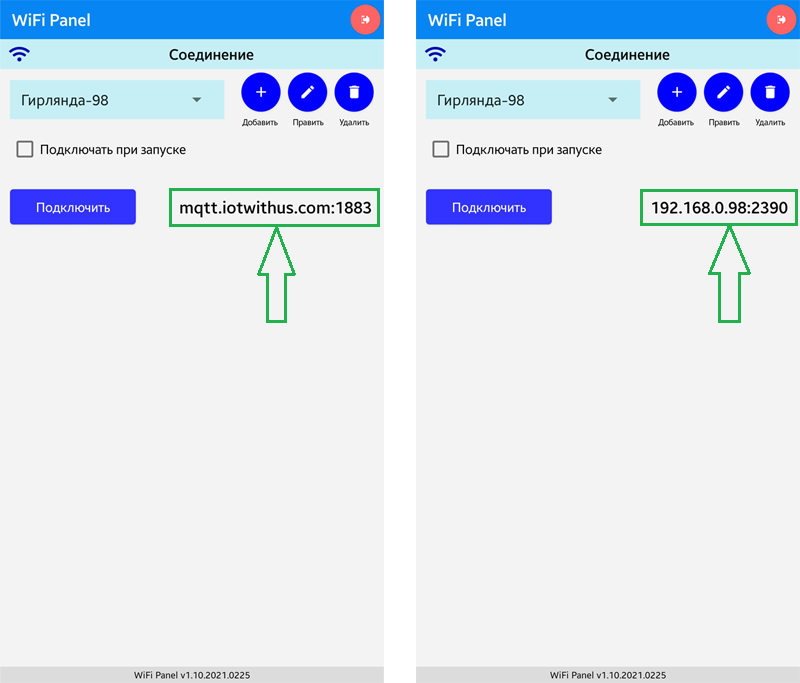
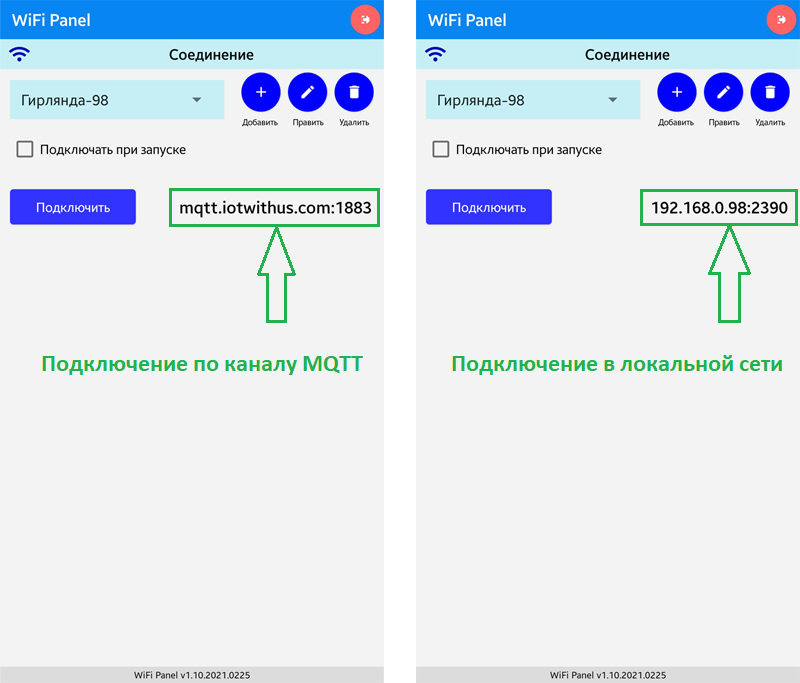
Правки wiki

Changed region(s): [[0.5625, 0.5227, 1.0, 0.5534], [0.0312, 0.5227, 0.4688, 0.5534]]

diff --git a/wiki/Tune/phone.md b/wiki/Tune/phone.md
@@ -3,7 +3,7 @@
 ## Подключение к устройству
 
 Итак, прошивка настроена, скомпилирована и загружена в микроконтроллер. Микроконтроллер запустился и в окне монитора порта вы видите сообщение, 
-что точка доступа **PanalAP** создана со стандартным IP **192.168.4.1** и стандартным паролеь 12341234.  
+что точка доступа **PanelAP** создана со стандартным IP **192.168.4.1** и стандартным паролем 12341234.  
 
 ![Монитор порта](https://github.com/vvip-68/GyverPanelWiFi/blob/master/wiki/Tune/p01.png)
                
@@ -11,11 +11,11 @@
 
 ![PanelAP-1](https://github.com/vvip-68/GyverPanelWiFi/blob/master/wiki/Tune/p03.png)
 
-Выберите сеть **PanelAP**, введите в поле пароля пароль *12341234** и нажмите кнопку "Подключиться"  
+Выберите сеть **PanelAP**, введите в поле пароля пароль **12341234** и нажмите кнопку **"Подключиться"**  
 
 ![PanelAP-2](https://github.com/vvip-68/GyverPanelWiFi/blob/master/wiki/Tune/p02.png)
 
-Ваш телефон подключился к точкке доступа, созданной устройством  
+Ваш телефон подключился к точ	ке доступа, созданной устройством  
 
 ![PanelAP-3](https://github.com/vvip-68/GyverPanelWiFi/blob/master/wiki/Tune/p04.png)
 
@@ -24,9 +24,9 @@
 
 ![Приложение-1](https://github.com/vvip-68/GyverPanelWiFi/blob/master/wiki/Tune/p05.png)
 
-В списке доступных подключений уже выбрано подключение **PanelAP**, параметры подключения - 192.168.4.1:2390; Нажмите кнопку **"Подключить"**.  
+В списке доступных подключений уже выбрано подключение **PanelAP**, параметры подключения - **192.168.4.1:2390**. Нажмите кнопку **"Подключить"**.  
 
-Приложение подключется к устройству. В верхней части экрана приложения вы увидите набор кнопок, позволяющих переключаться между страницами интерфейса приложения.
+Приложение подключится к устройству. В верхней части экрана приложения вы увидите набор кнопок, позволяющих переключаться между страницами интерфейса приложения.
 Перейдите на страницу **"Настройки подключения"**.
 
 ![Приложение-2](https://github.com/vvip-68/GyverPanelWiFi/blob/master/wiki/Tune/p06.png)
@@ -48,9 +48,9 @@
 
 ![Приложение-4](https://github.com/vvip-68/GyverPanelWiFi/blob/master/wiki/Tune/p08.png)
 
-В поле **Имя** дайте имя создаваемому соединению. Это имя позже можно будет выбрать из списке созданных соединений для быстрого выбора подключения.  
-В поле **IP адрес** укажите IP адресм, который получило ваше устройство при регистрации в вашей локальной сети.  
-В поле **Порт** укажите порт подключения, который был указан на этапе конфигурирования прошивки перед компиляцией. Значение по умолчанию - ***2390***  
+В поле **"Имя"** дайте имя создаваемому соединению. Это имя позже можно будет выбрать из списка созданных соединений для быстрого выбора устройства для подключения.  
+В поле **"IP адрес"** укажите IP адрес, который получило ваше устройство при регистрации в вашей локальной сети.  
+В поле **"Порт"** укажите порт подключения, который был указан на этапе конфигурирования прошивки перед компиляцией. Значение по умолчанию ***2390***  
 Обратите внимание, что при настройке соединения отмечен чекбокс **"Локальная сеть"**
 
 Нажмите кнопку **"Подключить"**. Приложение сохранит введенные настройки подключения для дальнейшего использования.  
@@ -63,12 +63,16 @@
 выполните в приложении на смартфоне [настройку](https://github.com/vvip-68/GyverPanelWiFi/wiki/%D0%9D%D0%B0%D1%81%D1%82%D1%80%D0%BE%D0%B9%D0%BA%D0%B0-%D0%BF%D0%BE%D0%B4%D0%BA%D0%BB%D1%8E%D1%87%D0%B5%D0%BD%D0%B8%D1%8F-%D0%BA-MQTT-%D1%81%D0%B5%D1%80%D0%B2%D0%B5%D1%80%D1%83#%D0%9D%D0%B0%D1%81%D1%82%D1%80%D0%BE%D0%B9%D0%BA%D0%B0-%D0%BF%D0%B0%D1%80%D0%B0%D0%BC%D0%B5%D1%82%D1%80%D0%BE%D0%B2-mqtt-%D0%B2-%D0%BF%D1%80%D0%B8%D0%BB%D0%BE%D0%B6%D0%B5%D0%BD%D0%B8%D0%B8) 
 связи с использованием этого канала.
 
+```
 Управление по каналу MQTT позволяет управлять устройством не находясь в непосредственной близости от него.
-Если ваша гирлянда висит на балконе 12-го этажа многоэтажного здания и с улицы видна только через дорогу от него - вам скорее всегоне удастся подключится 
-к вашей локальной сети. В этом случае может быть использовано управление через MQTT - гирлянда будет доступна даже если вы находитесь в другом городе.
+Если ваша гирлянда висит на балконе 12-го этажа многоэтажного здания и с улицы видна только через дорогу от него - вам скорее всего не удастся подключится 
+к вашей локальной сети. В этом случае может быть использовано управление по каналу MQTT - гирлянда будет доступна даже если вы находитесь в другом городе.
+```
 
-Подключитесь к вашему устройству, используя уже настроенный вами канал ***"Локальная сеть"***.
-Перейдите на страничку настройки соединения к секции **"Настройки MQTT"**.
+### Настройка подключения со стороны устройства
+
+Подключитесь к вашему устройству, используя уже настроенный вами канал ***"Локальная сеть"***.  
+Перейдите на страничку настройки соединения к секции **"Настройки MQTT"**.  
 
 ![Приложение-5](https://github.com/vvip-68/GyverPanelWiFi/blob/master/wiki/Tune/p07.png)
 
@@ -79,19 +83,22 @@
 Выбранный нами сервер ***mqtt.iotwithus.com*** не использует авторизацию по ***Логину*** и ***Паролю*** - оставьте эти поля пустыми.
 Если ваш брокер использует авторизацию - укажите в этих полях **Логин** и **Пароль** для доступа к вашему аккаунту на сервере.  
 
-Уникальность соединения канала управления без использования авторизации (логин и пароль) обеспечивается выбранным уникальным префиксом, добавляемым к
-топику команд управления устройством. Придумайте уникальный топик и укажите его в поле **"Префикс"**. В нашем случае используется префикс ***smtk4d32***.
+Уникальность соединения канала управления без использования авторизации (логин и пароль) обеспечивается выбранным префиксом, добавляемым к
+топику команд управления устройством. Придумайте уникальное значение и укажите его в поле **"Префикс"**. В нашем случае используется префикс ***smtk4d32***.
 Используйте только латинские буквы, цифры, знак подчеркивания и минус.  
 
-Если канал связи с авторизацией - укажите в поле **"Префикс"** люое понятное вам значение, например ***WiFiPanel***.  
+Если канал связи с авторизацией - можете указать в поле **"Префикс"** люое понятное вам значение, например ***WiFiPanel***.  
 
-В поле **"Интервал отправки значения uptime"** укажите периодичность отправки устройством уведомлений о его состоянии (включено/выключено) и время его бесперебойной работы.  
+В поле **"Интервал отправки значения uptime"** укажите периодичность отправки устройством уведомлений о его состоянии (включено/выключено) и время его бесперебойной работы. 
 Рекомендуется оставить настройки по-умолчанию - ***60 секунд***.  
 
-Нажмите кнопку "Сохранить" для отправки настроек в устройство. Отметьте чекбокс **"Использовать MQTT"** для активации соединения.  
+Нажмите кнопку **"Сохранить"** для отправки настроек в устройство.  
+Отметьте чекбокс **"Использовать MQTT"** для активации соединения.  
 
-В мониторе порта вы увидите, что устройство отправило брокеру пакет со значениями своего текущего состояния. Устройство готово к работе по каналу MQTT.  
+В мониторе порта вы увидите, что устройство отправило брокеру пакет со значениями своего текущего состояния.  
+Устройство готово к работе по каналу MQTT.  
 
+### Настройка подключения со стороны приложения
 
 Откройте в приложении страницу настроек соединения, выберите в комбобоксе созданное соединение с вашим устройством и нажмите кнопку **"Править"**.  
 
@@ -101,12 +108,12 @@
 
 ![Приложение-7](https://github.com/vvip-68/GyverPanelWiFi/blob/master/wiki/Tune/p10.png)
 
-Установите чекбокс способа подключения - **MQTT**  
-В полях **"Сервер"** и **"Порт"** укажите имя MQTT-сервера и порт, как вы указали их в настройках подключения выше.  
+Установите чекбокс способа подключения - **MQTT канал**  
+В полях **"Сервер"** и **"Порт"** укажите имя MQTT-сервера и порт, как вы указали их в настройках подключения со стороны устройства выше.  
 Укажите **"Логин"** и **"Пароль"** для подключения к серверу или оставьте их пустыми, если сервер не требует авторизации.  
-В поле **"Префикс"** укажите тот же префикс, который вы использовали в *Настройках подключения* к серверу со стороны устройства выше.  
+В поле **"Префикс"** укажите тот же префикс, который вы использовали в ***Настройках подключения*** со стороны устройства выше.  
 
-Нажмите кнопку **"Сохранить"** в верху страницы и сразу кнопку **"Подключить"** - настройки соединения будут сохранены.  
+Нажмите кнопку **"Сохранить"** вверху страницы или сразу кнопку **"Подключить"** - настройки соединения будут сохранены.  
 
 Какой канал соединения с устройством будет использоваться - ***Локальная сеть*** или ***MQTT*** можно увидеть в специальном информационном поле на странице **"Подключение"**
 в приложении:  
@@ -114,11 +121,12 @@
 ![Приложение-8](https://github.com/vvip-68/GyverPanelWiFi/blob/master/wiki/Tune/p11.png)
 
 В случае подключение к устройству в ***локальной сети*** - указана IP адрес и порт подключения устройства.  
-В случае подключение к устройству по к ***каналу MQTT*** - указано имя сервера (ЬЙЕЕ-брокер) и портподключения к серверу.  
+В случае подключение к устройству по к ***каналу MQTT*** - указано имя сервера (MQTT-брокер) и портподключения к серверу.  
 
 # Настройка устройства из приложения
 
-Итак, соединение с устройством установлено, интерфейс управления возможностями доступен. Можно приступать к настройке функций и эффектов.
+Итак, соединение с устройством установлено, интерфейс управления возможностями устройства - доступен. 
+Можно приступать к настройке функций и эффектов.
 
 ## Общие настройки
 
